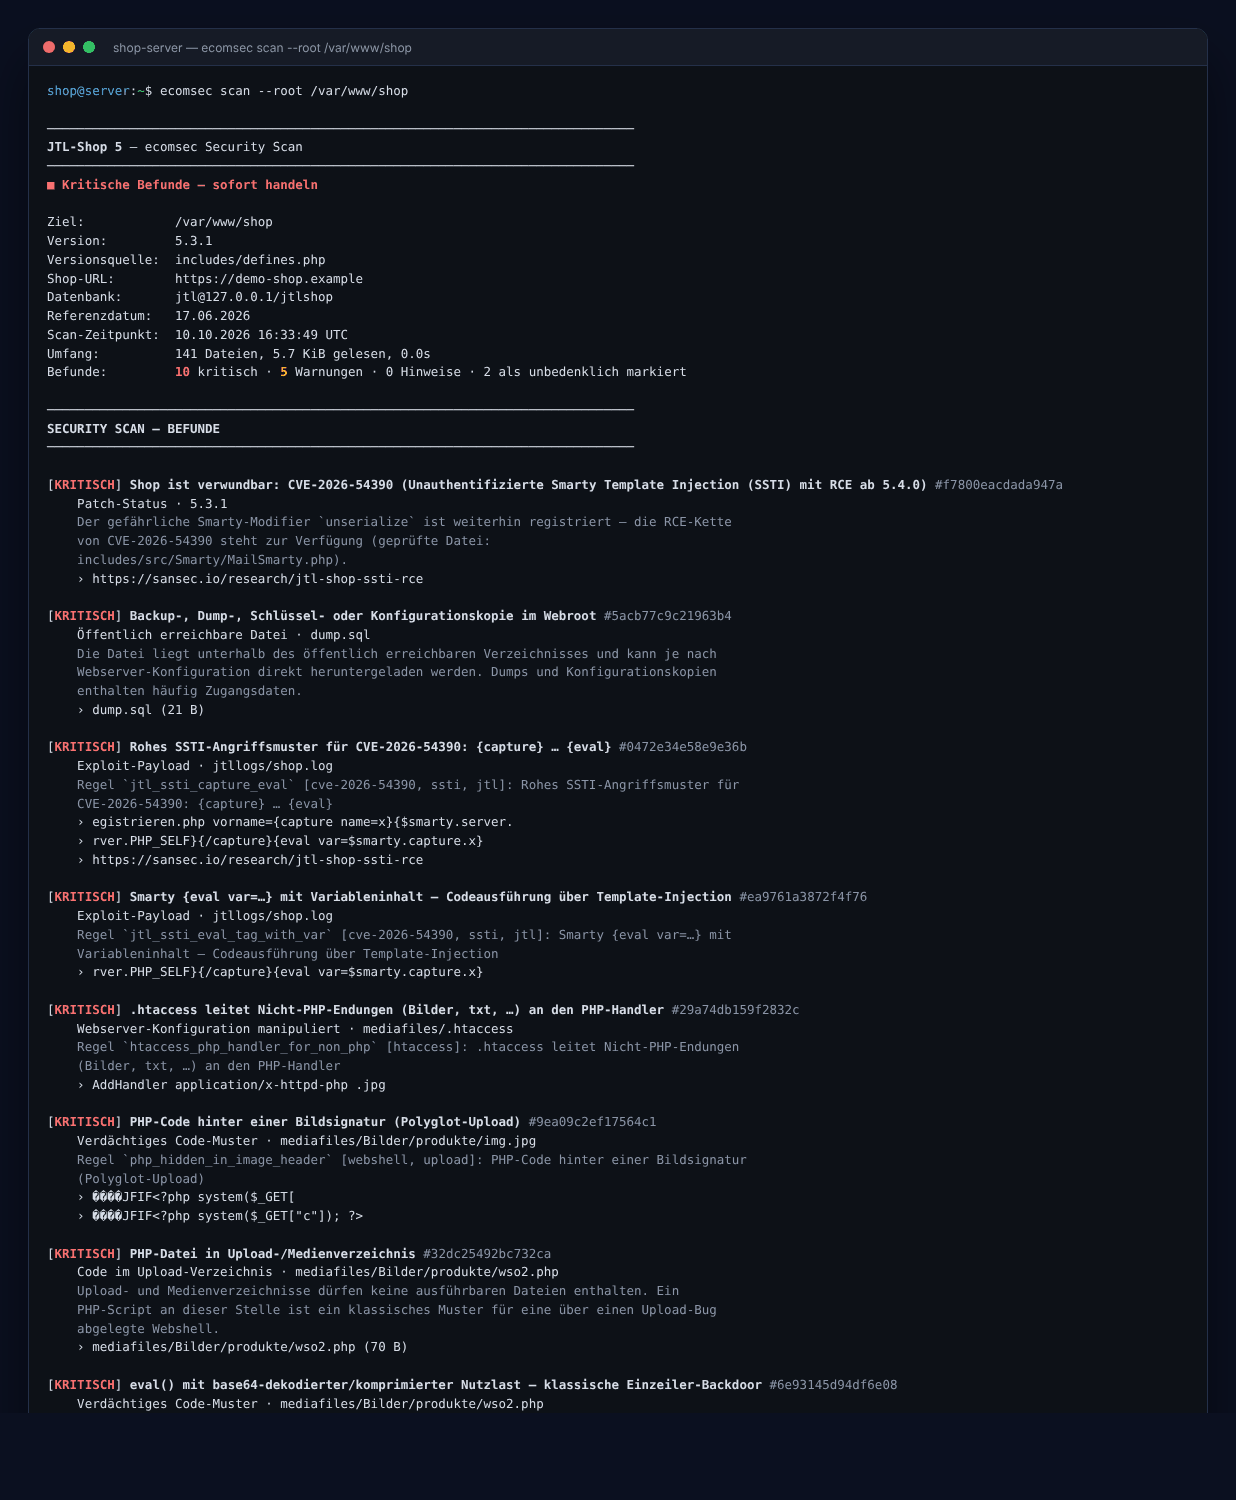
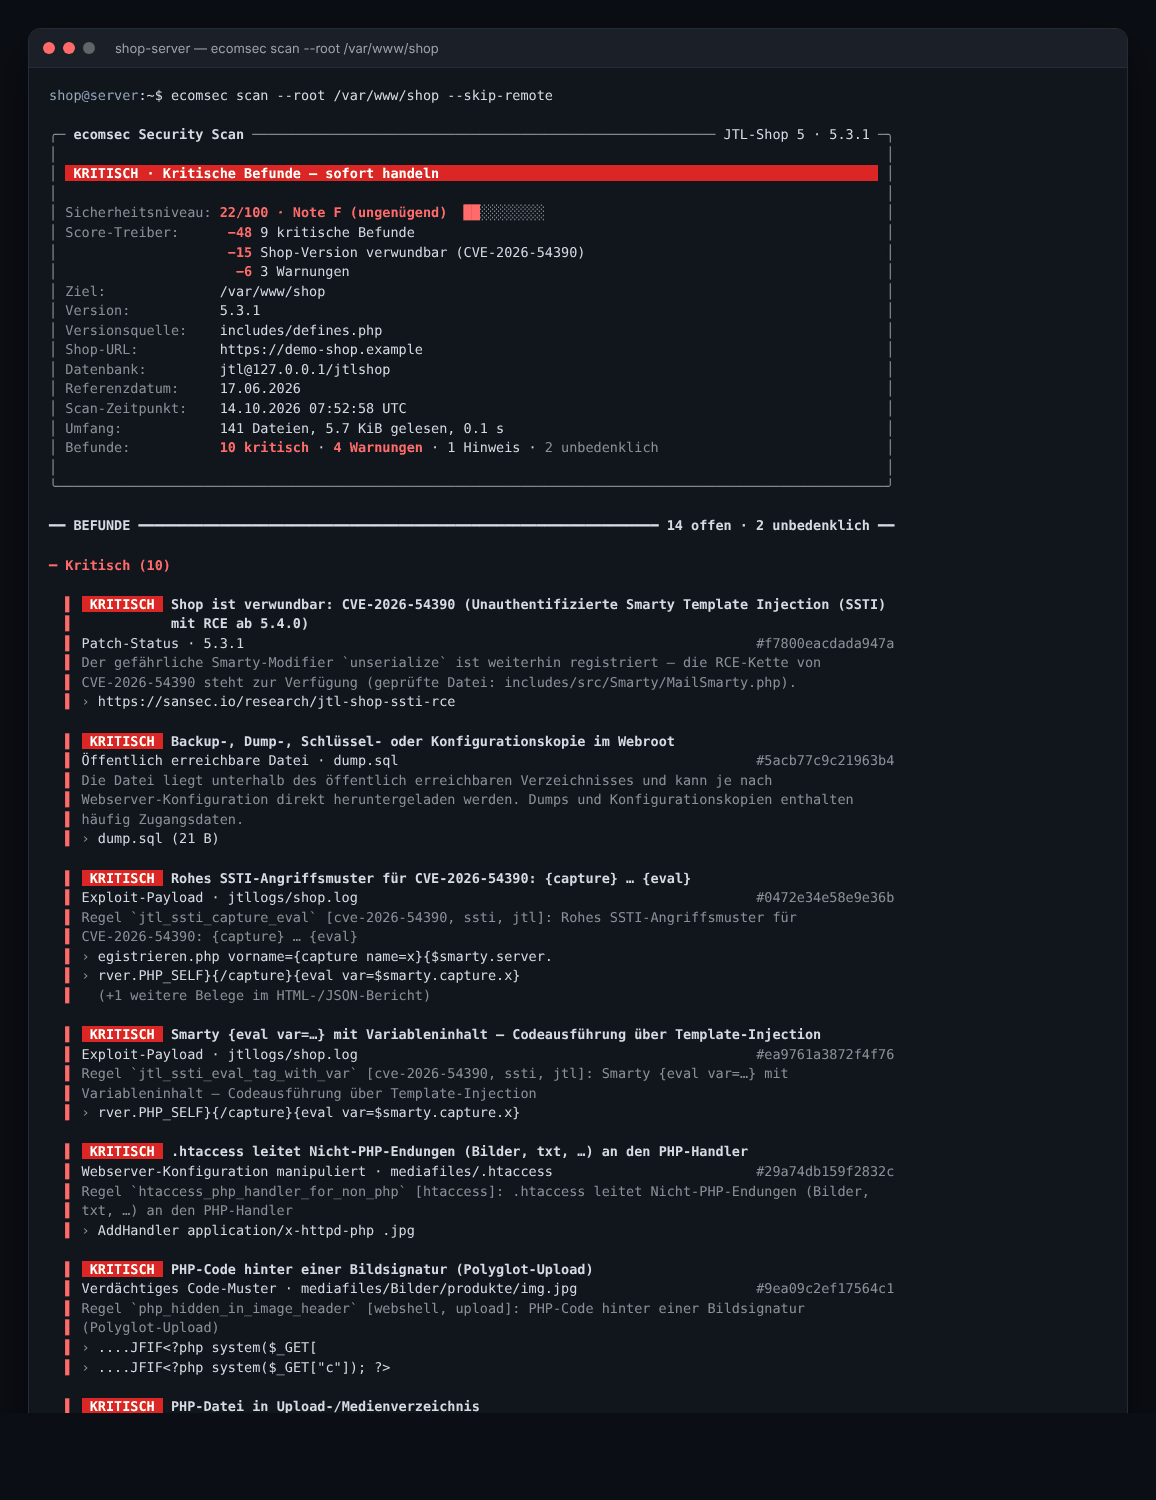
Screenshots für Terminal und HTML-Bericht aktualisiert
Neues Terminalbild der überarbeiteten Ausgabe sowie zwei Bilder des
HTML-Berichts (Zusammenfassung hell, Befunde dunkel) mit Bildunterschriften
im Abschnitt „Screenshots“ der README.

Claude-Session: https://claude.ai/code/session_01AWwAumUQXp2hAgwtpXT79q

diff --git a/README.md b/README.md
@@ -167,7 +167,13 @@ der Shop abgeschaltet wird), **Sofortmaßnahmen**, **Kompromittierungs-Prüfung*
 ## 📸 Screenshots
 
 <p align="center"><img src="docs/img/terminal.png" alt="Scan-Ergebnis im Terminal" width="92%"></p>
-<p align="center"><i>Scan im Terminal: Ampel, Zusammenfassung und Befunde mit Beweisausschnitten.</i></p>
+<p align="center"><i>Scan im Terminal: Kopfkarte mit Ampel, Sicherheitsniveau und Score-Treibern, danach die Befunde nach Schweregrad mit Kategorie, Fundort, ID und Beweiszeilen – am Ende die nächsten Befehle.</i></p>
+
+<p align="center"><img src="docs/img/report.png" alt="HTML-Bericht – Zusammenfassung" width="92%"></p>
+<p align="center"><i>HTML-Bericht (<code>ecomsec report --format html</code>): eine einzelne Datei zum Weitergeben und Drucken – Ergebnis, Sicherheitsniveau, Kennzahlen, Diagramme und die drei wichtigsten Maßnahmen auf einen Blick.</i></p>
+
+<p align="center"><img src="docs/img/report_dark.png" alt="HTML-Bericht – Befunde, dunkles Design" width="92%"></p>
+<p align="center"><i>Befunde im HTML-Bericht (dunkles Design): Filter, Gruppierung nach Verzeichnis und aufklappbare Details mit Beweisausschnitten.</i></p>
 
 <p align="center"><img src="docs/img/dashboard.png" alt="Dashboard – Security Scan" width="92%"></p>
 <p align="center"><i>Dashboard, Tab „Security Scan“: Filter, Gruppierung nach Verzeichnis, Befunde einzeln oder gesammelt als unbedenklich markieren.</i></p>
